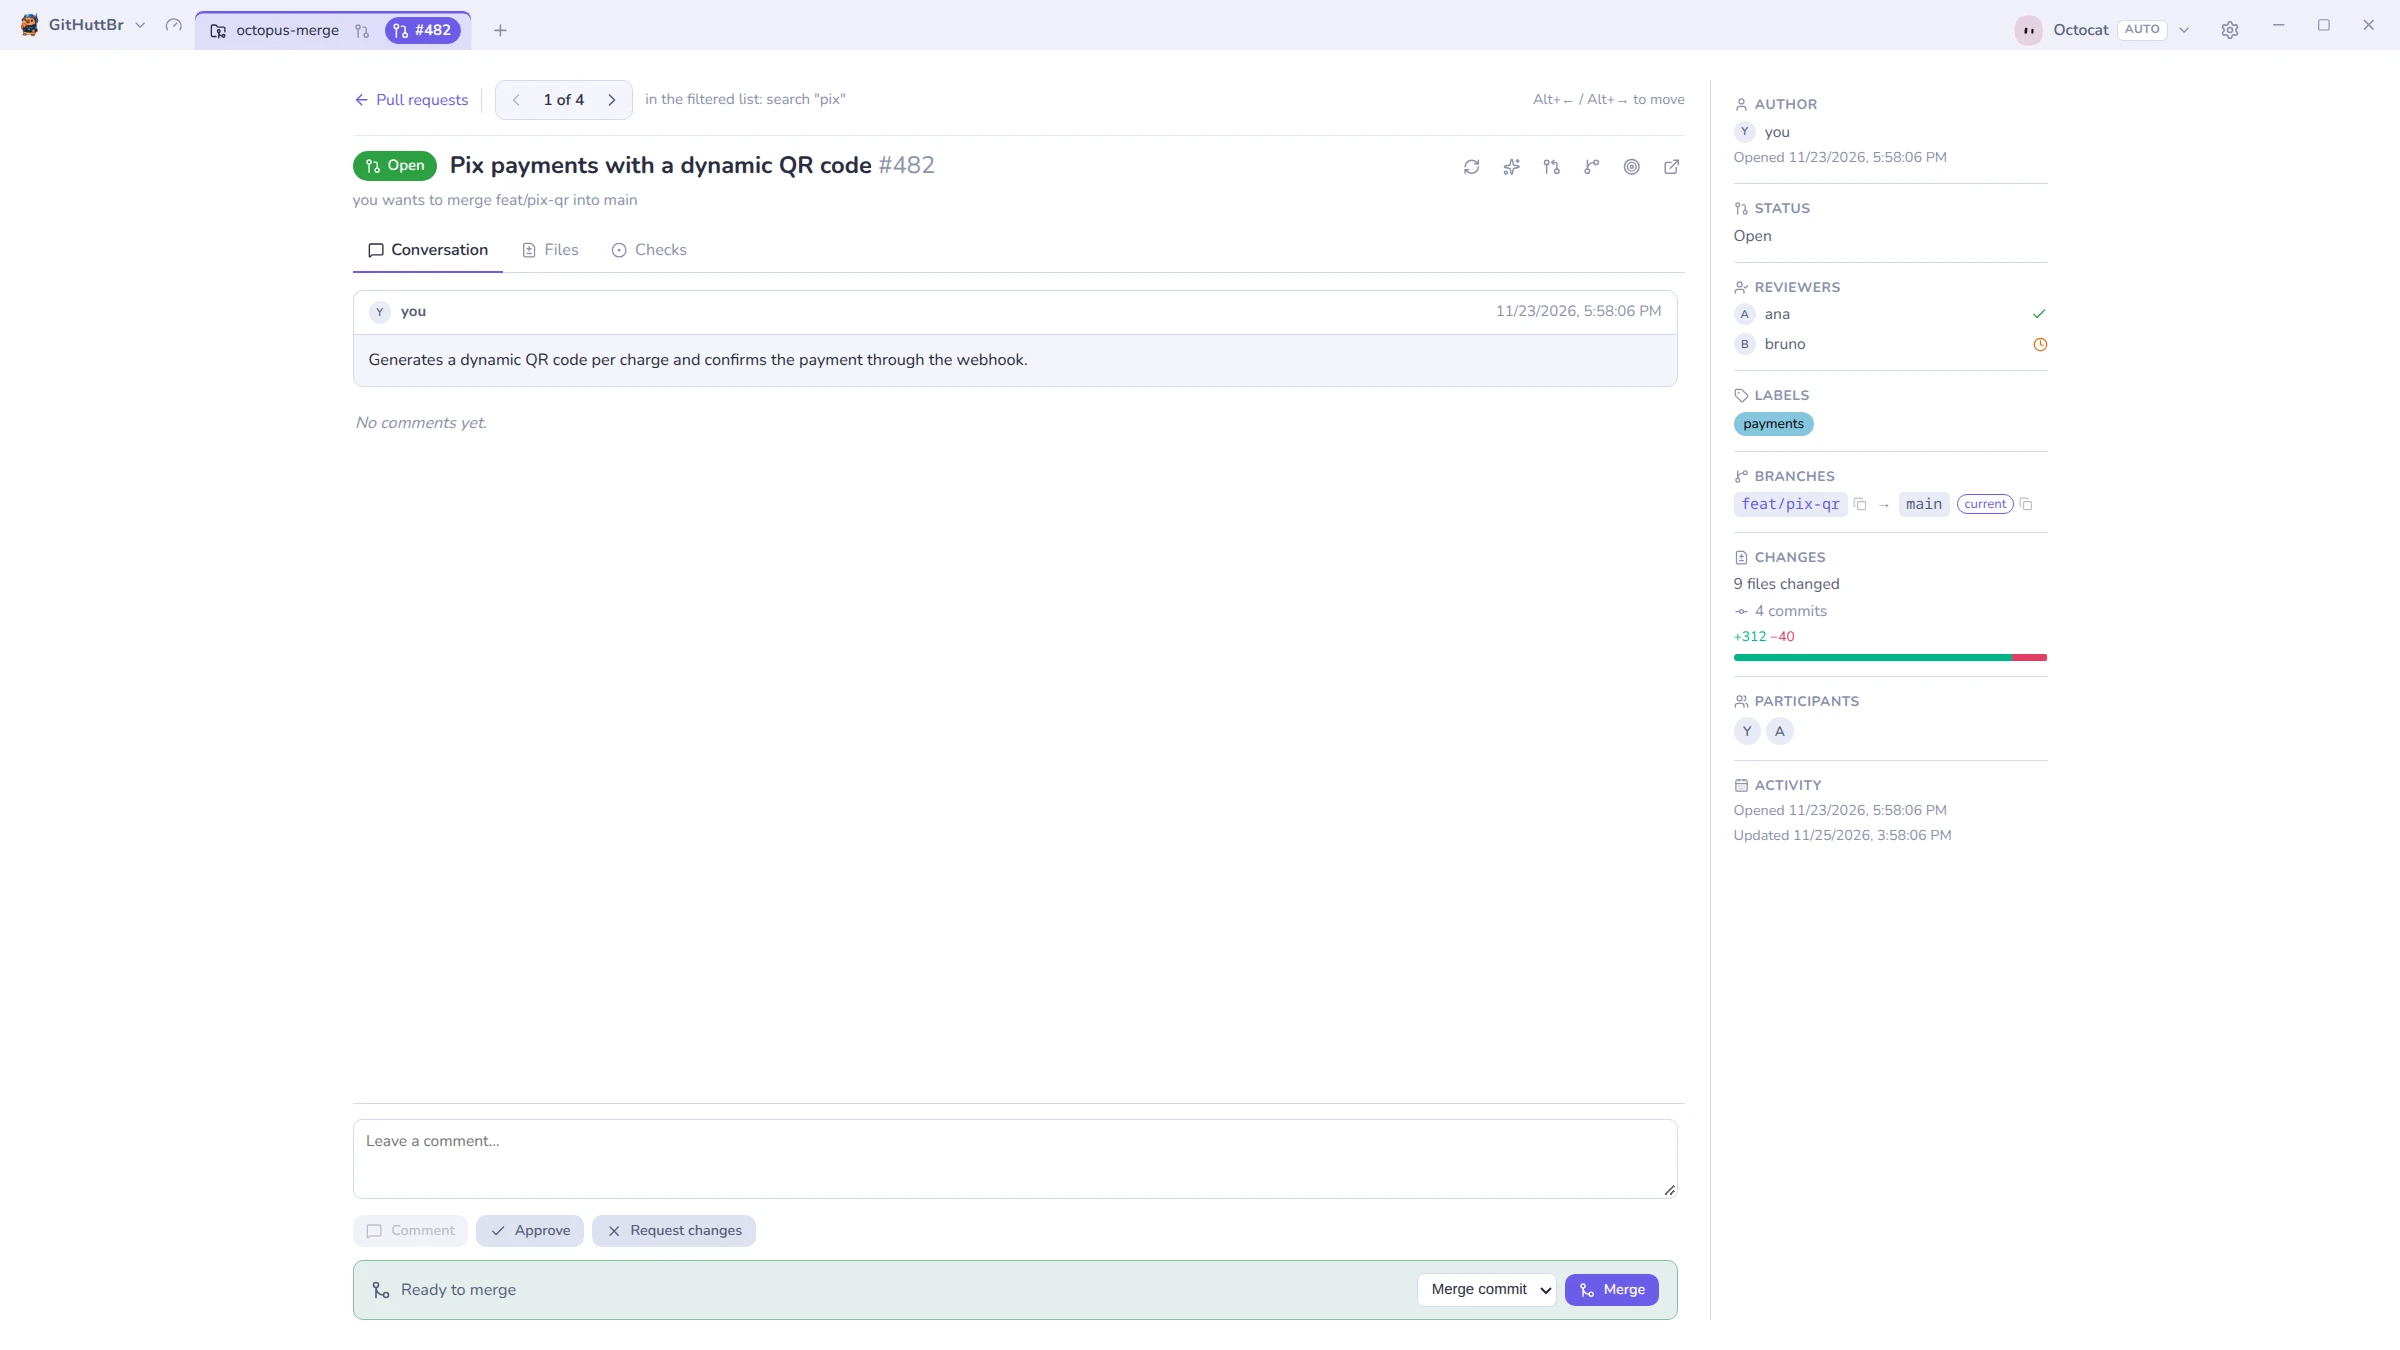
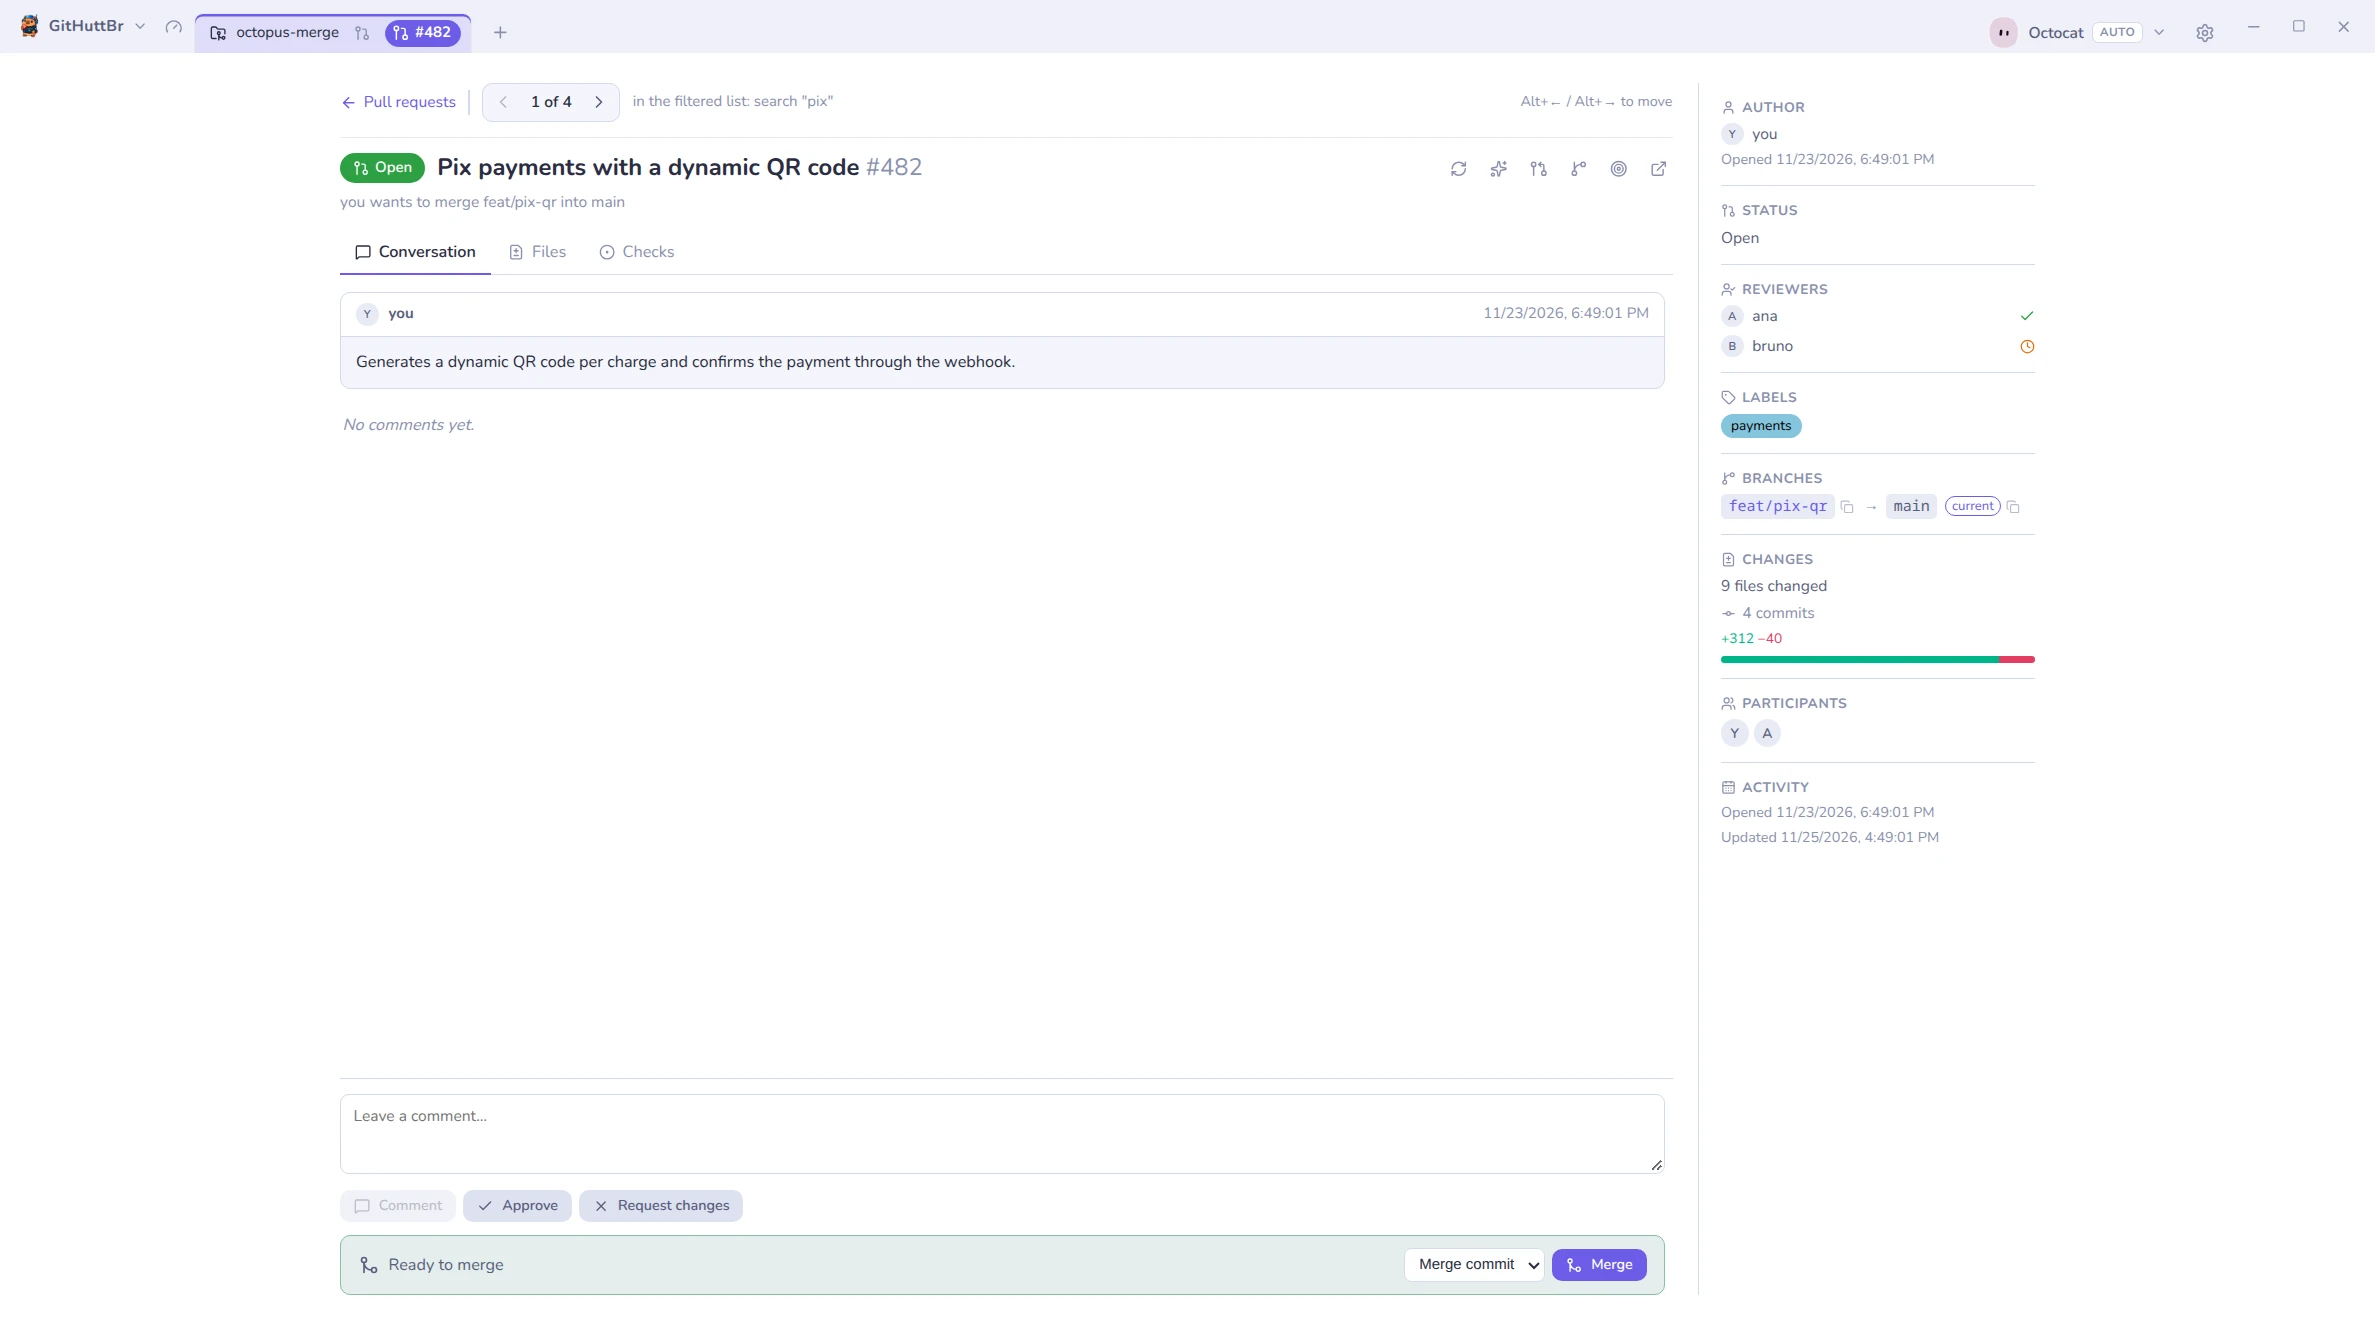
fix(pr): keep the PR page's merge bar inside the window
The .prp-frame wrapper is a flex child of the app column with no
overflow, so min-height:auto kept it from shrinking and the bottom of
the page slid under the window edge. flex:1, min-height:0 and
overflow:hidden, as .changelog-page does.

diff --git a/src/renderer/src/styles.css b/src/renderer/src/styles.css
@@ -19118,7 +19118,7 @@ mark.diff-find-hit.current { background: #ff9632; color: #10121a; }
 /* The page's own width, not the window's, decides when the sidebar stacks: with the repository
    sidebar open a wide window can still leave the conversation a sliver. A container query cannot
    look at the element it styles, hence the frame around .prp-page. */
-.prp-frame { container-type: inline-size; height: 100%; }
+.prp-frame { container-type: inline-size; flex: 1; min-height: 0; height: 100%; overflow: hidden; }
 .prp-page {
   display: flex; gap: 20px; height: 100%; overflow: hidden; box-sizing: border-box;
   background: var(--bg-1); padding: 24px max(32px, calc((100% - 1420px) / 2 + 32px));
